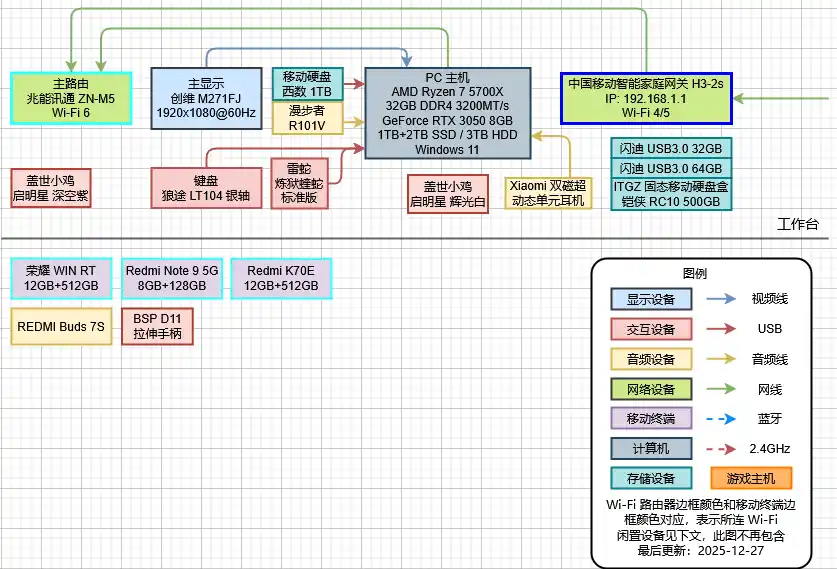
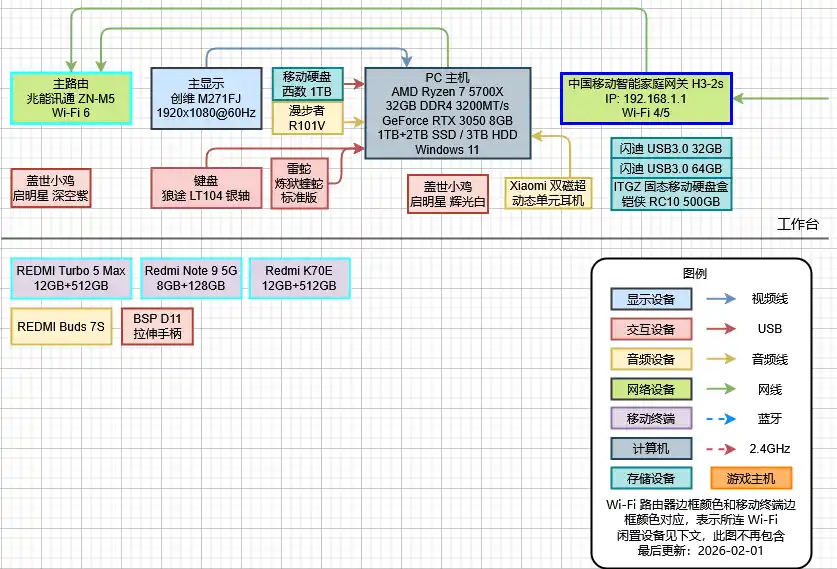
Update

Changed region(s): [[0.0311, 0.4482, 0.4349, 0.5378], [0.8698, 0.9561, 0.9319, 0.9859]]

diff --git a/source/_posts/2022-01-27-my-devices.md b/source/_posts/2022-01-27-my-devices.md
@@ -3,7 +3,7 @@ title: "我的电子设备们"
 top_img: false
 ---
 
-- **最后更新**：2025-12-28
+- **最后更新**：2026-01-31
 
 <img src="/img/in-post/device-map.webp" />
 
@@ -65,14 +65,27 @@ top_img: false
 - `中国移动智能家庭网关 H3-2s`
 
 ## 手机
-### 荣耀 WIN RT
+### REDMI Turbo 5 Max
 - **状态**: 主力机
+- **购买时间**: 2026-01-29
+- **SoC**: MediaTek 天玑 9500s
+- **GPU**: Arm Immortalis-G925 MC12
+- **RAM**: 12GB LPDDR5x Ultra
+- **ROM**: 512GB UFS 4.1
+- **屏幕**: 6.83" AMOLED (2772x1280)
+- **电池**: 9000mAh (典型值)
+- **OS**: Android 16 (Xiaomi HyperOS 3)
+
+### ~~荣耀 WIN RT~~
+- **状态**: 换购新机回收
 - **购买时间**: 2025-12-27
+- **卖出时间**: 2026-01-31
 - **SoC**: 骁龙 8 至尊版
 - **GPU**: Adreno 830
 - **RAM**: 12GB LPDDR5x Ultra
 - **ROM**: 512GB UFS 4.1
 - **屏幕**: 6.83" AMOLED (2800x1272)
+- **电池**: 10000mAh (典型值)
 - **OS**: Android 16 (MagicOS 10)
 
 ### Redmi K70E
@@ -83,6 +96,7 @@ top_img: false
 - **RAM**: 12GB LPDDR5x
 - **ROM**: 512GB UFS 4.0
 - **屏幕**: 6.67" AMOLED (2712x1220)
+- **电池**: 5500mAh (典型值)
 - **OS**: Android 16 (Xiaomi HyperOS 3)
 
 ### Redmi Note 9 5G
@@ -93,6 +107,7 @@ top_img: false
 - **RAM**: 8GB LPDDR4x
 - **ROM**: 128GB UFS 2.2
 - **屏幕**: 6.53" LCD (2340x1080)
+- **电池**: 5000mAh (典型值)
 - **OS**: Android 12 (MIUI 14)
 
 ### Redmi K40
@@ -103,6 +118,7 @@ top_img: false
 - **RAM**: 12GB LPDDR5
 - **ROM**: 256GB UFS 3.1
 - **屏幕**: 6.67" AMOLED (2400x1080)
+- **电池**: 4520mAh (典型值)
 - **OS**: Android 13 (Xiaomi HyperOS 1)
 
 ### ~~Redmi K20~~
@@ -114,6 +130,7 @@ top_img: false
 - **RAM**: 6GB LPDDR4x
 - **ROM**: 128GB UFS 2.1
 - **屏幕**: 6.39" AMOLED (2340x1080)
+- **电池**: 4000mAh (典型值)
 - **OS**: Android 11 (MIUI 12.5)
 
 ### 小米 Max 2
@@ -125,6 +142,7 @@ top_img: false
 - **RAM**: 4GB LPDDR3
 - **ROM**: 64GB eMMC
 - **屏幕**: 6.44" LCD (1920x1080)
+- **电池**: 5300mAh (典型值)
 - **OS**: Android 7.1.1 (MIUI 11)
 
 ### 荣耀 V8 高配版
@@ -136,6 +154,7 @@ top_img: false
 - **RAM**: 4GB LPDDR4
 - **ROM**: 64GB eMMC
 - **屏幕**: 5.7" LCD (2560x1440)
+- **电池**: 3500mAh (典型值)
 - **OS**: Android 8.0.0 (EMUI 8.0)
 
 ### 红米 Note 4
@@ -147,6 +166,7 @@ top_img: false
 - **RAM**: 3GB LPDDR3
 - **ROM**: 64GB eMMC
 - **屏幕**: 5.5" LCD (1920x1080)
+- **电池**: 4100mAh (典型值)
 - **OS**: Android 6.0 (MIUI 10)
 
 ### 红米 Note 3 全网通
@@ -158,6 +178,7 @@ top_img: false
 - **RAM**: 3GB LPDDR3
 - **ROM**: 32GB eMMC
 - **屏幕**: 5.5" LCD (1920x1080)
+- **电池**: 4050mAh (典型值)
 - **OS**: Android 6.0.1 (MIUI 8)
 
 ### 红米 Note 3 双网通
@@ -169,6 +190,7 @@ top_img: false
 - **RAM**: 2GB LPDDR3
 - **ROM**: 16GB eMMC
 - **屏幕**: 5.5" LCD (1920x1080)
+- **电池**: 4050mAh (典型值)
 - **OS**: Android 5.0.2 (MIUI 9)
 
 ### 红米 2 电信版
@@ -180,6 +202,7 @@ top_img: false
 - **RAM**: 1GB LPDDR3
 - **ROM**: 8GB eMMC
 - **屏幕**: 4.7" LCD (1280x720)
+- **电池**: 2265mAh (典型值)
 - **OS**: Android 10 (LineageOS 17.1)
 
 ### ~~华为 C8816D~~
@@ -190,6 +213,7 @@ top_img: false
 - **RAM**: 1GB
 - **ROM**: 4GB
 - **屏幕**: 5" LCD (960x540)
+- **电池**: 2000mAh
 - **OS**: Android 4.3 (EMUI 2.0)
 
 ### 红米 1S 电信版
@@ -201,6 +225,7 @@ top_img: false
 - **RAM**: 1GB LPDDR3
 - **ROM**: 8GB eMMC
 - **屏幕**: 4.7" LCD (1280x720)
+- **电池**: 2000mAh
 - **OS**: Android 7.1.2 (魔趣)
 
 ### 中兴 Q301C
@@ -212,6 +237,7 @@ top_img: false
 - **RAM**: 512MB
 - **ROM**: 2GB
 - **屏幕**: 5" LCD (854x480)
+- **电池**: 1650mAh
 - **OS**: Android 4.3
 
 ### ~~中兴 U817~~
@@ -222,6 +248,7 @@ top_img: false
 - **RAM**: 512MB
 - **ROM**: 2GB
 - **屏幕**: 4.5" LCD (854x480)
+- **电池**: 1600mAh
 - **OS**: Android 4.0.4
 
 ### 其他手机
@@ -242,6 +269,7 @@ top_img: false
 - **RAM**: 6GB LPDDR4x
 - **ROM**: 128GB UFS 2.1
 - **屏幕**: 11" LCD (2000x1200)
+- **电池**: 7700mAh (典型值)
 - **OS**: Android 12 (ZUI 14)
 
 ### ~~REDMI K Pad~~
@@ -253,6 +281,7 @@ top_img: false
 - **RAM**: 12GB LPDDR5x
 - **ROM**: 512GB UFS 4.1
 - **屏幕**: 8.8" LCD (3008x1880)
+- **电池**: 7500mAh (典型值)
 - **OS**: Android 16 (Xiaomi HyperOS 3)
 
 ### 易百分 YBFA9
@@ -285,6 +314,7 @@ top_img: false
 - **RAM**: 2GB LPDDR3
 - **ROM**: 16GB eMMC
 - **屏幕**: 7" LCD (1024x600)
+- **电池**: 3100mAh
 - **OS**: Android 6.0 (EMUI 4.1)
 
 ### ~~iPad mini 2 (日版)~~
@@ -304,6 +334,7 @@ top_img: false
 - **RAM**: 512MB
 - **ROM**: 8GB
 - **屏幕**: 7" LCD (960x540)
+- **电池**: 2500mAh
 - **OS**: Android 4.4.2
 
 ### ~~原道 N90 四核 IPS~~
@@ -313,6 +344,7 @@ top_img: false
 - **RAM**: 1GB
 - **ROM**: 16GB
 - **屏幕**: 9.7" LCD (1024x768)
+- **电池**: 5000mAh
 - **OS**: Android 4.2.2
 
 ### ~~原道 N12~~
@@ -322,6 +354,7 @@ top_img: false
 - **RAM**: 512MB DDR3
 - **ROM**: 8GB
 - **屏幕**: 7" LCD (800x480)
+- **电池**: 4500mAh
 - **OS**: Android 4.1.1
 
 ## 游戏设备
